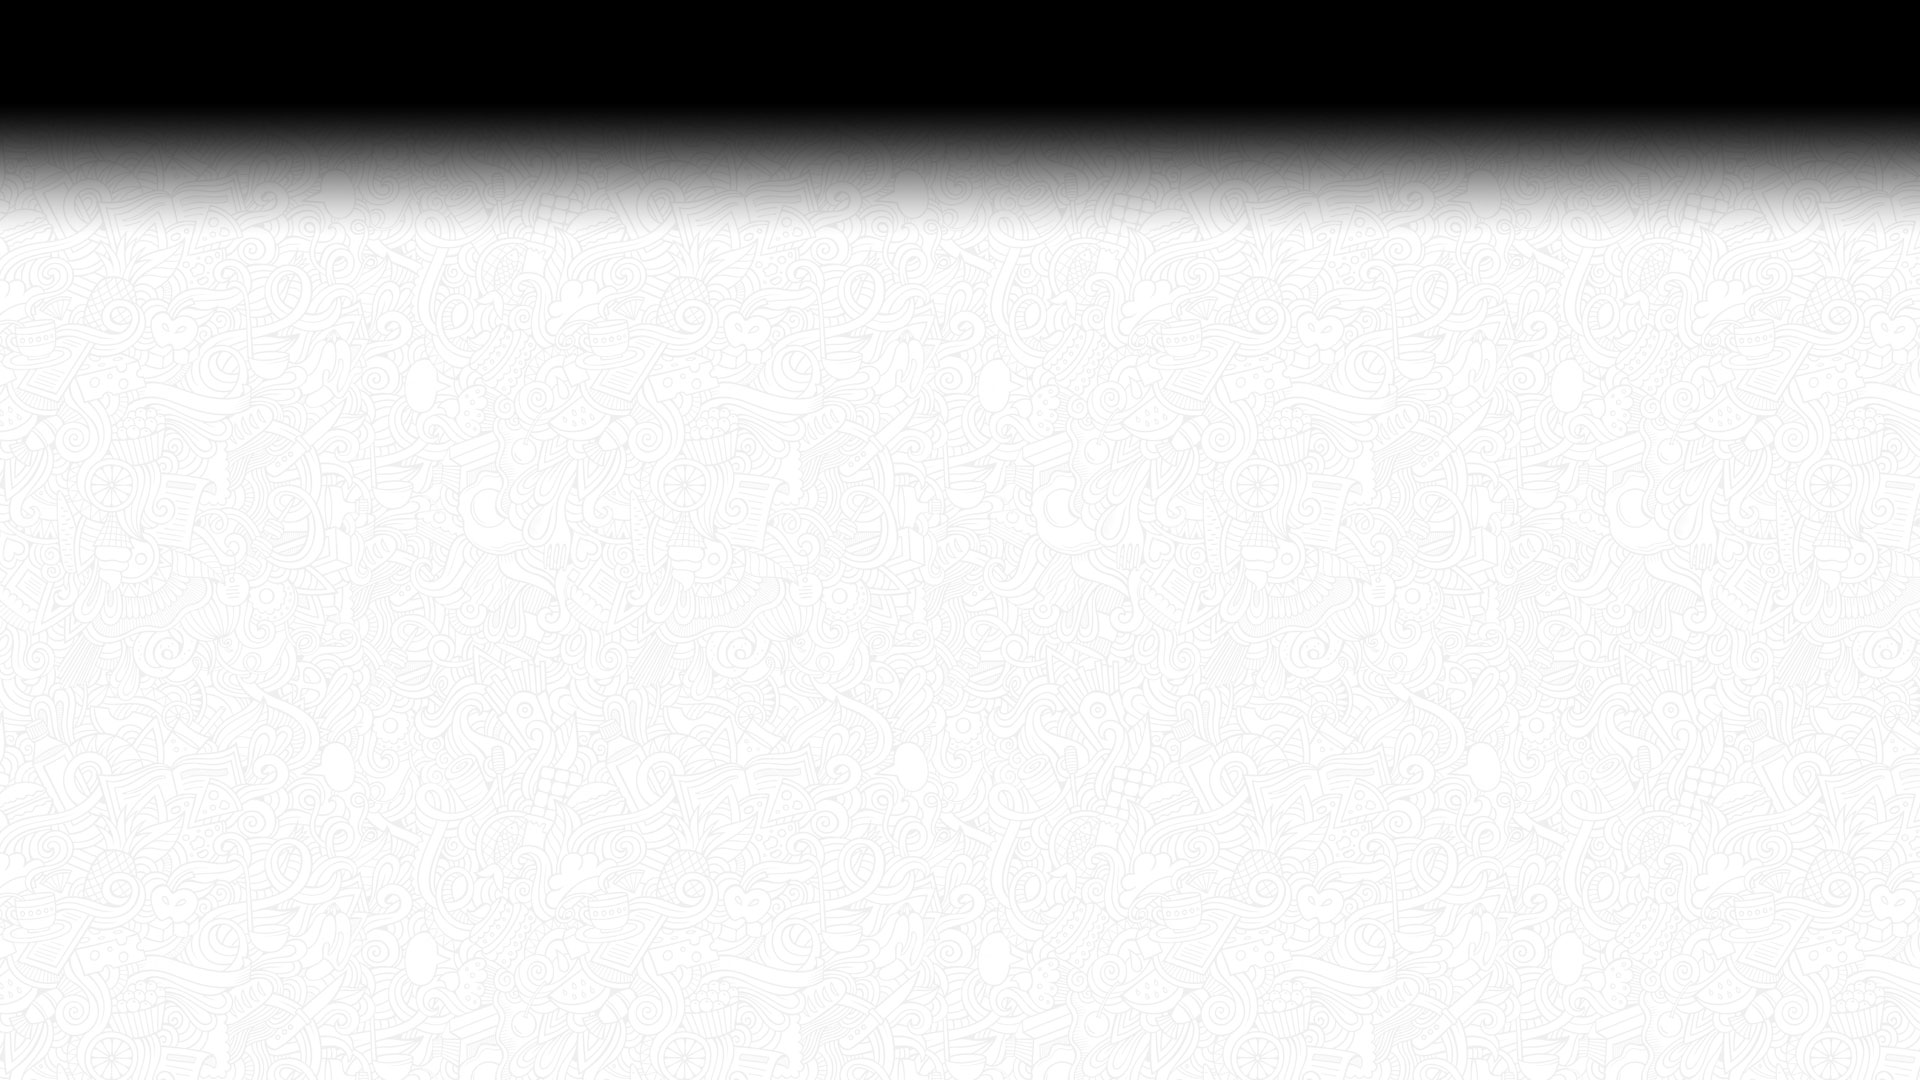
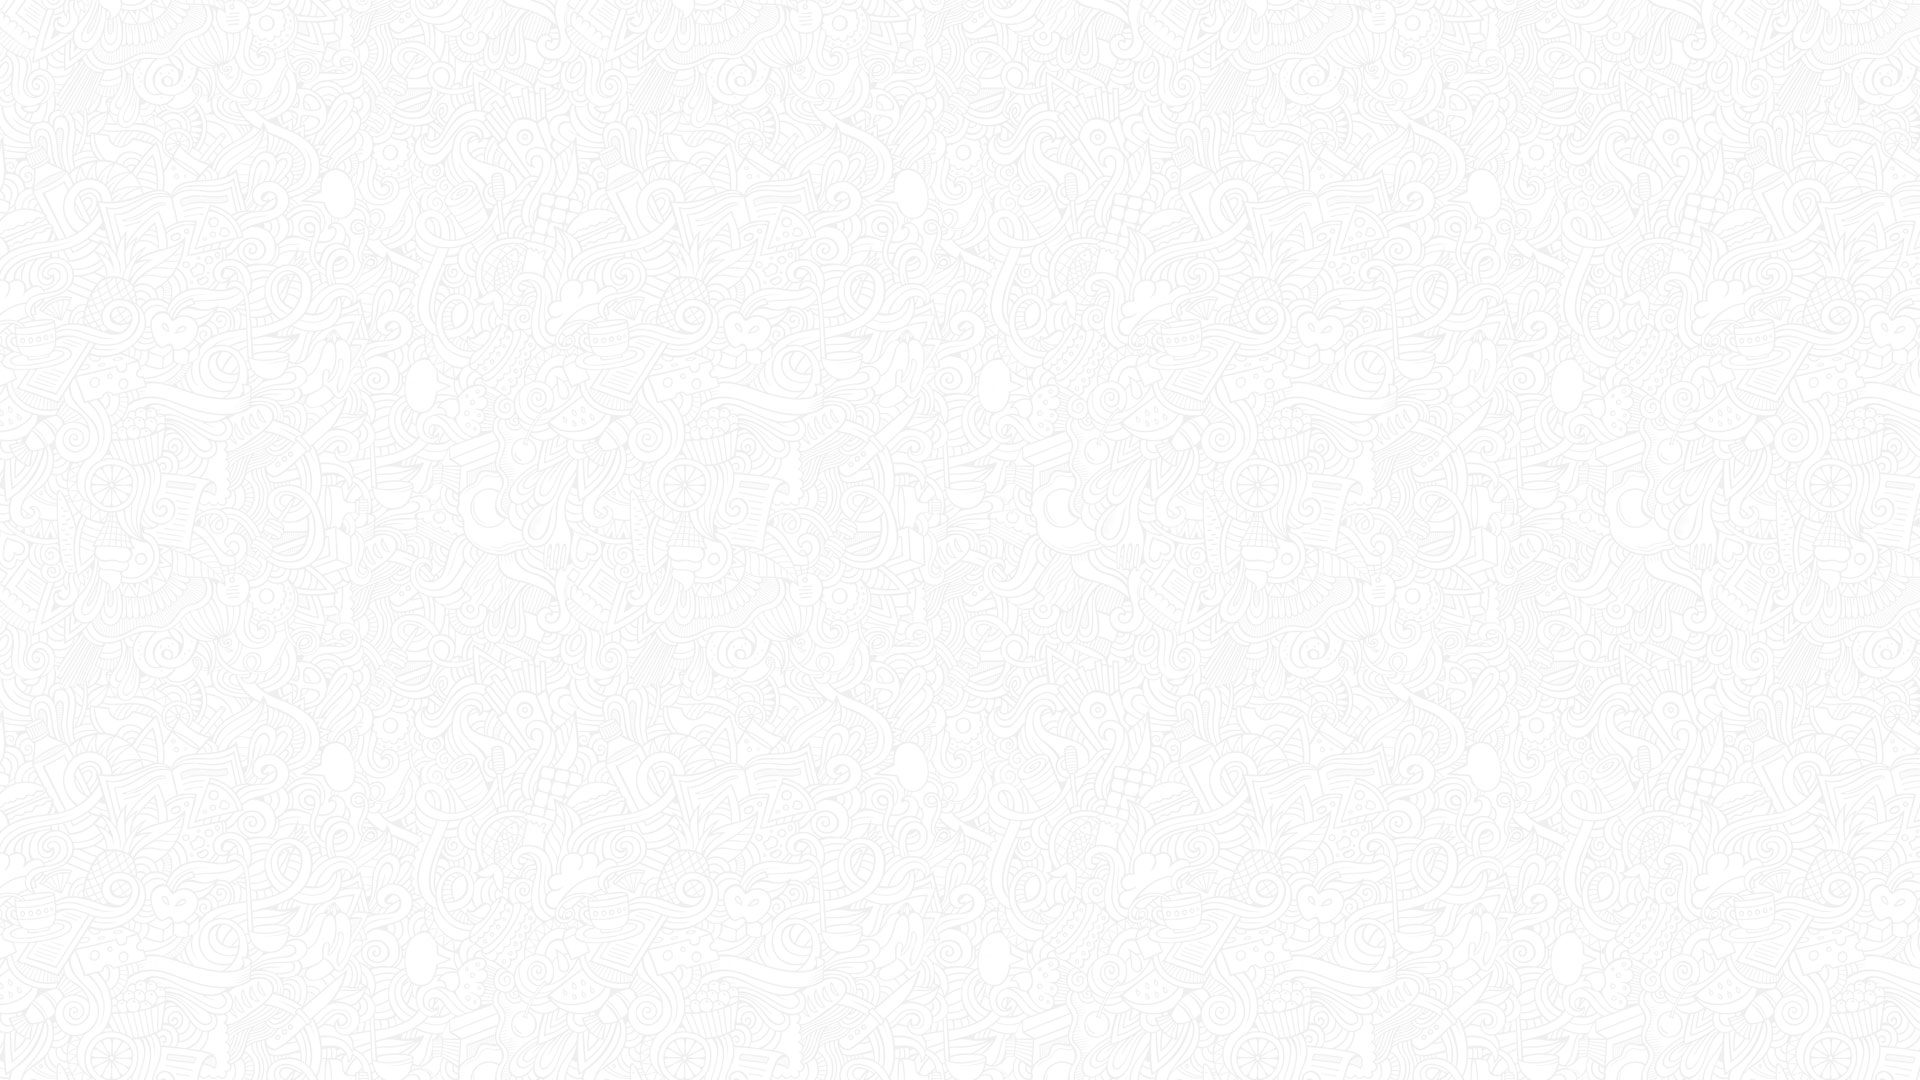
Added box shadows so the background could stay the same

Changed region(s): [[0.0, 0.0, 1.0, 0.2139]]

diff --git a/Talk.html b/Talk.html
@@ -67,7 +67,6 @@
 <div class="row padding container1">
     <div class="col-lg-6 cmdtext">
         <h2>Betekenis</h2>
-        <hr>
         <p>Dit nummer gaat over een gevoel van verwarring over het leven, vooral over de toekomst. De persoon wil over al zijn zorgen, bezorgdheden en angsten praten en daaruit een oplossing halen.</p> <p>Het is als een gesprek tussen twee mensen, de ene persoon die hulp nodig heeft en de ander de adviseur. "tell me how you feel… well I feel like they’re talking in a language I don’t speak…" Het refrein gaat over alle mogelijkheden die het leven in petto heeft en alle dingen die we kunnen waarmaken. "You could climb a ladder up to the sun, or write a song nobody had sung, or do something that’s never been done."</p>
     </div>
     <div class="col-lg-6">

diff --git a/Elixir.css b/Elixir.css
@@ -1,6 +1,8 @@
 @import url('https://fonts.googleapis.com/css?family=Poppins:400,500,700');
 
 html, body {
+    background-image: url(image/BG.jpg);
+    background-attachment: local;
     height: 100%;
     width: 100%;
     font-family: 'poppins', sans-serif;
@@ -9,6 +11,7 @@ html, body {
 }
 .navbar {
     padding: .5rem;
+    box-shadow: 0px 17px 27px 5px rgba(0,0,0,0.75);
 }
 .navbar-brand {
     height: 90px;
@@ -79,7 +82,7 @@ html, body {
 }
 .container1 {
     padding-top: 1rem;
-    background-color: #ededed;
+    background-color: rgba(191, 191, 191, 0.44);
     text-align: center;
 }
 .container2 {

diff --git a/Talk.css b/Talk.css
@@ -1,6 +1,8 @@
 @import url('https://fonts.googleapis.com/css?family=Poppins:400,500,700');
 
 html, body {
+    background-image: url(image/BG.jpg);
+    background-attachment: local;
     height: 100%;
     width: 100%;
     font-family: 'poppins', sans-serif;
@@ -9,6 +11,7 @@ html, body {
 }
 .navbar {
     padding: .5rem;
+    box-shadow: 0px 17px 27px 5px rgba(0,0,0,0.75);
 }
 .navbar-brand {
     height: 90px;
@@ -79,7 +82,7 @@ html, body {
 }
 .container1 {
     padding-top: 1rem;
-    background-color: #ededed;
+    background-color: rgba(191, 191, 191, 0.44);
     text-align: center;
 }
 .container2 {

diff --git a/index.html b/index.html
@@ -65,10 +65,10 @@
             <img src="Gifs/ArjanvanEe%20titel.gif" alt="Titel">
         </div>
         <div class="carousel-item active">
-            <img src="image/art_slide_1.jpg" alt="slider plaatje 1">
+            <img src="image/art_slide_1.png" alt="slider plaatje 1">
         </div>
         <div class="carousel-item">
-            <img src="image/art_slide_2.jpg" alt="slider plaatje 2">
+            <img src="image/art_slide_2.png" alt="slider plaatje 2">
         </div>
         <div class="carousel-item">
             <img src="image/talk_slide_2.jpg" alt="slider plaatje 3">

diff --git a/style.css b/style.css
@@ -1,6 +1,7 @@
 @import url('https://fonts.googleapis.com/css?family=Poppins:400,500,700');
 
 html, body {
+    background-image: url(image/BG.jpg);
     height: 100%;
     width: 100%;
     font-family: 'poppins', sans-serif;
@@ -8,6 +9,7 @@ html, body {
 }
 .navbar {
     padding: .5rem;
+    box-shadow: 0px 1px 74px 57px rgba(0,0,0,1);
 }
 .navbar-brand {
     height: 90px;
@@ -86,7 +88,7 @@ html, body {
 }
 .cmduitleg {
     padding-top: 30px;
-    background-color: #ededed;
+    background-color: rgba(191, 191, 191, 0.44);
     text-align: center; 
 }
 .cmdtext{

diff --git a/Art.css b/Art.css
@@ -9,6 +9,7 @@ html, body {
     }
 .navbar {
     padding: .5rem;
+    box-shadow: 0px 17px 27px 5px rgba(0,0,0,0.75);
     }
 .navbar-brand {
     height: 90px;
@@ -144,7 +145,8 @@ hr.light-100 {
 
 @media (max-width: 576px) {
     .gallery img {
-        width: 180px;
+        width: 120px;
+        padding: 10px;
     }
     .carousel-caption {
         top: 50%;
@@ -169,5 +171,6 @@ hr.light-100 {
 
 @media (max-width: 350px) {
     .gallery img {
-        width: 200px;
+        width: 80px;
+        padding: 5px;
     }

diff --git a/Elixir.html b/Elixir.html
@@ -67,7 +67,6 @@
 <div class="row padding container1">
     <div class="col-lg-6 cmdtext">
         <h2>Story</h2>
-        <hr>
         <p>Een wetenschapper is op onderzoek en experimenteert voor een mogelijk tegengif naar een wereldwijde infectie. Eén van zijn experimenten valt hem aan. Door een fusie met zijn experiment en het drinken van een speciaal drankje verkrijgt hij nieuwe krachten en gebruikt deze om de infectie tegen te gaan en op te lossen.</p>
     </div>
     <div class="col-lg-6">
